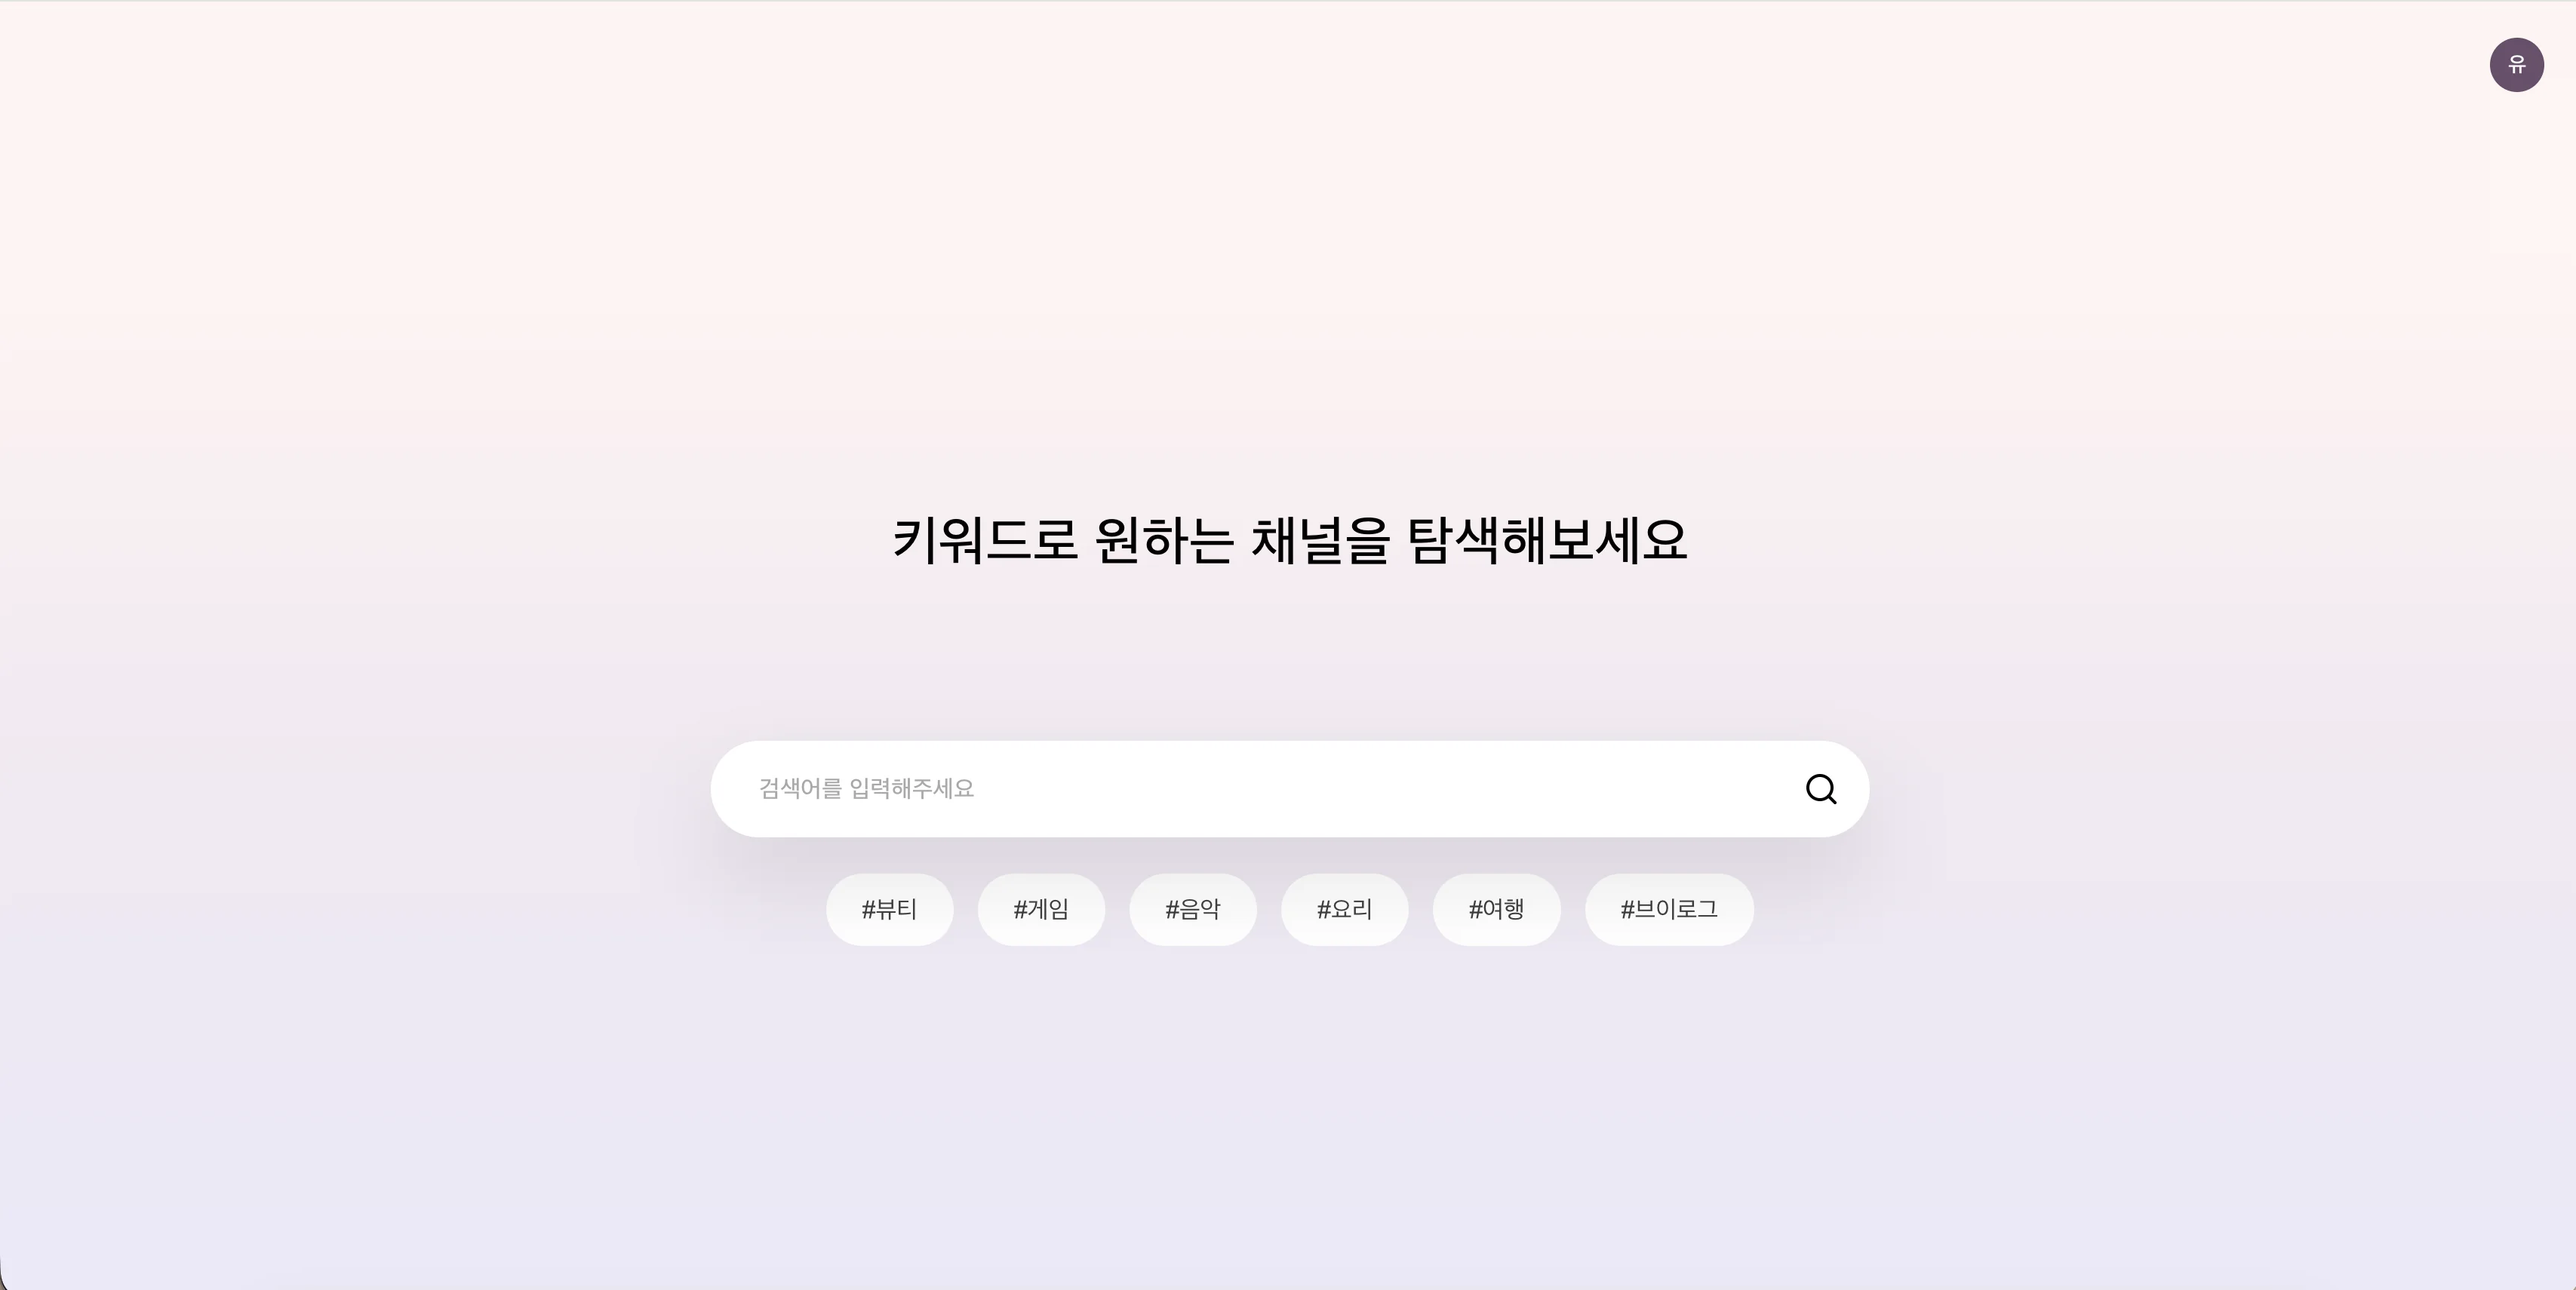
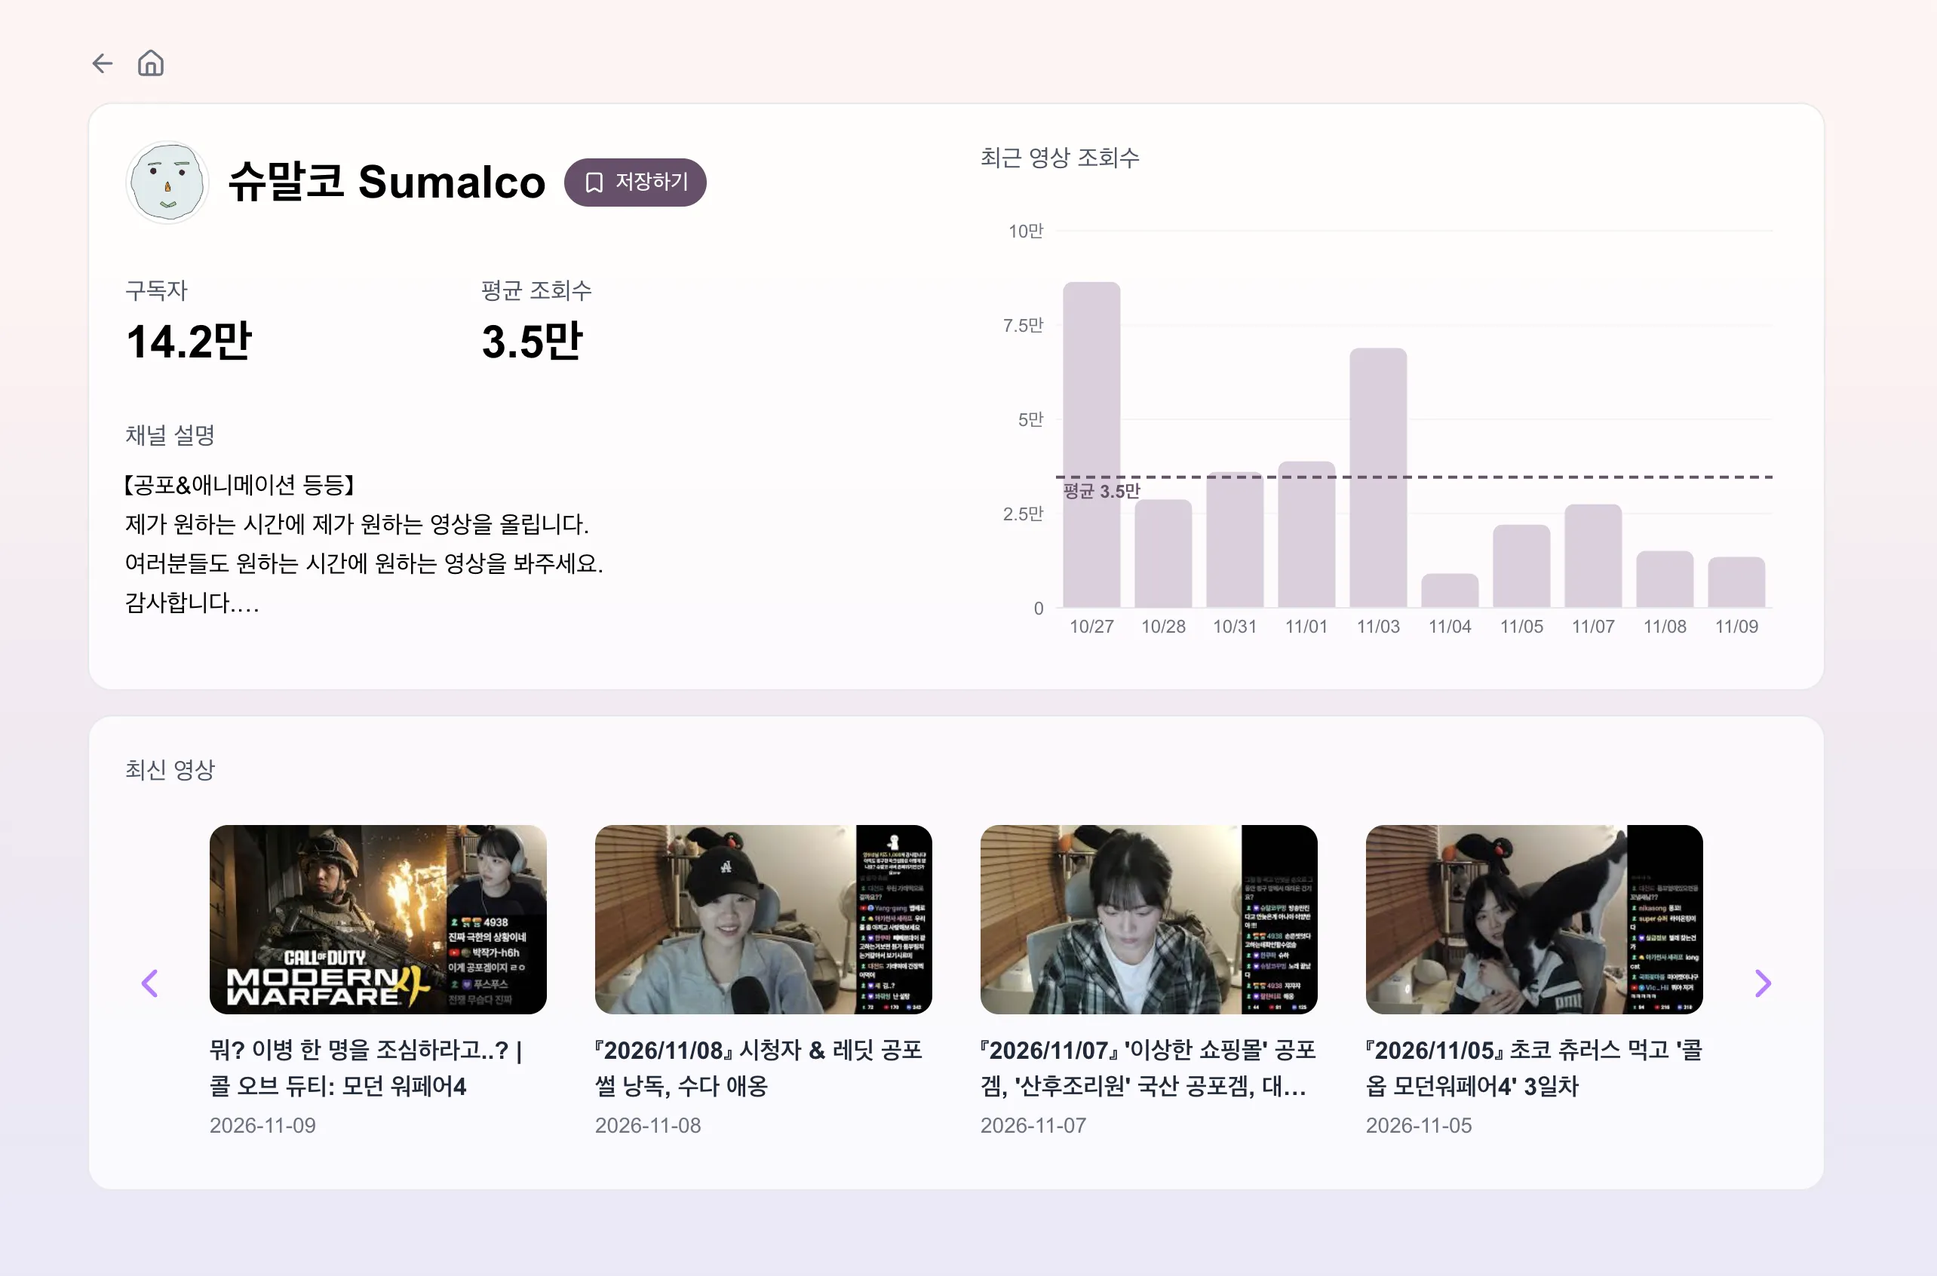
docs: 프로젝트 내용 업데이트

diff --git a/yurim-portfolio/src/data/modalData.js b/yurim-portfolio/src/data/modalData.js
@@ -10,20 +10,20 @@ export const modalData = [
     {
         id: 1,
         title: '[Influencer Finder]',
-        period: '2026.2 ~ 진행 중',
+        period: '2026.2 ~ 리팩토링 진행 중',
         teamInfo: '개인 프로젝트',
         summary: '',
         description: [ `마케터가 키워드로 유튜브 채널을 검색해 구독자 수와 영상 평균 조회수를 비교하고, 마음에 드는 채널을 저장해 컨택 진행 상황까지 관리할 수 있는 인플루언서 탐색·아카이빙 서비스입니다.
-YouTube Data API로 채널명 검색과 영상 제목 검색을 병렬 처리하는 하이브리드 검색 구조를 설계했고, 배치 요청과 캐싱으로 API 호출 횟수를 줄였습니다.`,
+YouTube Data API로 채널명 검색과 영상 제목 검색을 병렬 처리하는 하이브리드 검색 구조를 설계했고, 배치 요청과 캐싱으로 API 호출 횟수를 줄였습니다.
+(테스트 계정은 GitHub README에서 확인할 수 있습니다.)`,
         ],
         features: [
             '키워드 기반 유튜브 채널 검색',
-            '채널 상세 정보 조회',
-            '회원가입 및 로그인',
+            '채널 상세 정보 및 최근 영상 조회수 차트',
             '컨택 상태(미컨택/컨택/지원) 관리 및 개인 인플루언서 리스트 CRUD',
         ],
         techStack: [
-            'Next.js','TypeScript','Tailwind CSS','Supabase', 'YouTube Data API'],
+            'Next.js', 'TypeScript', 'Tailwind CSS', 'Supabase', 'YouTube Data API', 'Recharts', 'React Hook Form', 'Zod'],
         contributions: [
             {
                 title: '사용자 인터뷰 기반 UX 개선',
@@ -59,16 +59,26 @@ YouTube Data API로 채널명 검색과 영상 제목 검색을 병렬 처리하
                 ],
             },
             {
-                title: '회원 인증 구현',
+                title: '채널 성과 시각화',
                 description: [
-                    'Supabase Auth 기반 회원가입 및 로그인 구현',
-                    'RLS 정책을 적용해 사용자가 본인의 데이터만 조회·수정할 수 있도록 설정',
+                    'Recharts로 최근 영상 10개의 조회수 막대 차트와 평균 조회수 기준선 구현',
+                    '평균 조회수 계산 기준과 차트 데이터를 최근 영상 10개로 통일해 지표 일관성 확보',
+                    '숫자 표기를 소수점 한 자리(1.5만 등)까지 표시하도록 개선해 반올림 오차 해소',
+                ],
+            },
+            {
+                title: '서버 측 로그인 접근 제어',
+                description: [
+                    '@supabase/ssr로 세션을 쿠키 기반으로 전환해 서버에서도 로그인 상태를 확인할 수 있도록 구성',
+                    'Next.js proxy에서 렌더링 전 로그인 여부를 확인해 비로그인 사용자의 마이페이지 접근 차단',
+                    '로그인 후 원래 가려던 페이지로 돌아가도록 redirect 파라미터 처리',
                 ],
             },
             {
                 title: '컨택 관리 마이페이지 구현 (CRM형 데이터 관리 UI)',
                 description: [
                     'Supabase(PostgreSQL) 기반으로 저장한 인플루언서 정보의 조회/등록 CRUD 구현',
+                    'RLS 정책을 적용해 사용자가 본인의 데이터만 조회·수정할 수 있도록 설정',
                     '컨택 상태(미컨택/컨택/지원) 탭 필터, 구독자순/조회수순 정렬, 이름 검색을 조합한 다중 조건 필터링 UI 설계',
                     'useMemo를 활용해 필터링 무관한 state 변경 시 불필요한 재계산 방지',
                 ],
@@ -85,19 +95,19 @@ YouTube Data API로 채널명 검색과 영상 제목 검색을 병렬 처리하
                 ],
             },
             {
+                title: '서버에서 로그인 여부를 확인할 수 없던 문제',
+                description: [
+                    '[문제] 세션이 브라우저 localStorage에만 저장되어, 렌더링 전 서버(proxy)에서 로그인 여부를 확인할 수 없고 마이페이지 진입 시 빈 화면이 잠깐 노출됨',
+                    '[해결] @supabase/ssr로 세션을 쿠키에 저장하도록 전환하고, proxy에서 getUser()로 로그인 여부를 확인해 리다이렉트',
+                    '[결과] 렌더링 전에 접근을 제어해 빈 화면 깜빡임 제거',
+                ],
+            },
+            {
                 title: '더보기 클릭 시 새 데이터가 없는데도 버튼이 계속 노출되던 문제',
                 description: [
                     '[문제] YouTube API의 nextPageToken이 남아있어도 실제로는 중복된 채널만 반환되어, 더보기를 눌러도 목록이 늘어나지 않는 현상 발생',
                     '[해결] 응답 병합 후 실제로 새로 추가된 채널이 있는지 확인하는 로직을 추가해, 없으면 자동으로 다음 페이지를 재시도하고 최종적으로 종료 상태로 전환',
                     '[결과] 불러올 데이터가 없을 때 더보기 버튼이 정상적으로 사라져 의미 없는 클릭 방지',
-                ],
-            },
-            {
-                title: 'YouTube API 키 제한으로 서버 컴포넌트에서 API 호출이 막히는 문제',
-                description: [
-                    '[문제] 서버 컴포넌트는 referer가 비어있어 API 키의 HTTP 리퍼러 제한에 의해 요청이 차단됨',
-                    '[해결] 상세 페이지를 클라이언트 컴포넌트로 변경',
-                    '[결과] API 키 보안 제한을 유지하면서 채널 상세 정보 정상 조회',
                 ],
             },
             {
@@ -117,6 +127,7 @@ YouTube Data API로 채널명 검색과 영상 제목 검색을 병렬 처리하
                 icon: Github,
             },
         ],
+        url: 'https://influencer-finder-eight.vercel.app',
         image: influencerFinderImg,
     },
     {

diff --git a/yurim-portfolio/src/data/projectData.js b/yurim-portfolio/src/data/projectData.js
@@ -20,9 +20,9 @@ export const projectData = [
         semiTitle: '개인 프로젝트',
         image: projectImg5,
         imageWebp: projectImg5,
-        description: `마케터를 위한 인플루언서 리스트업 서비스`,
+        description: `마케터를 위한 인플루언서 아카이빙 서비스`,
         techStack: [css, HTML, JS, React, Tailwind, Vite],
-        date: '2026.1 ~ 진행 중',
+        date: '2026.1 ~ 리팩토링 진행 중',
         url: 'https://yurim-portfolio-one.vercel.app/',
         projectGithub: 'https://github.com/yurim1205/yurim_portfolio',
         velogUrl:
